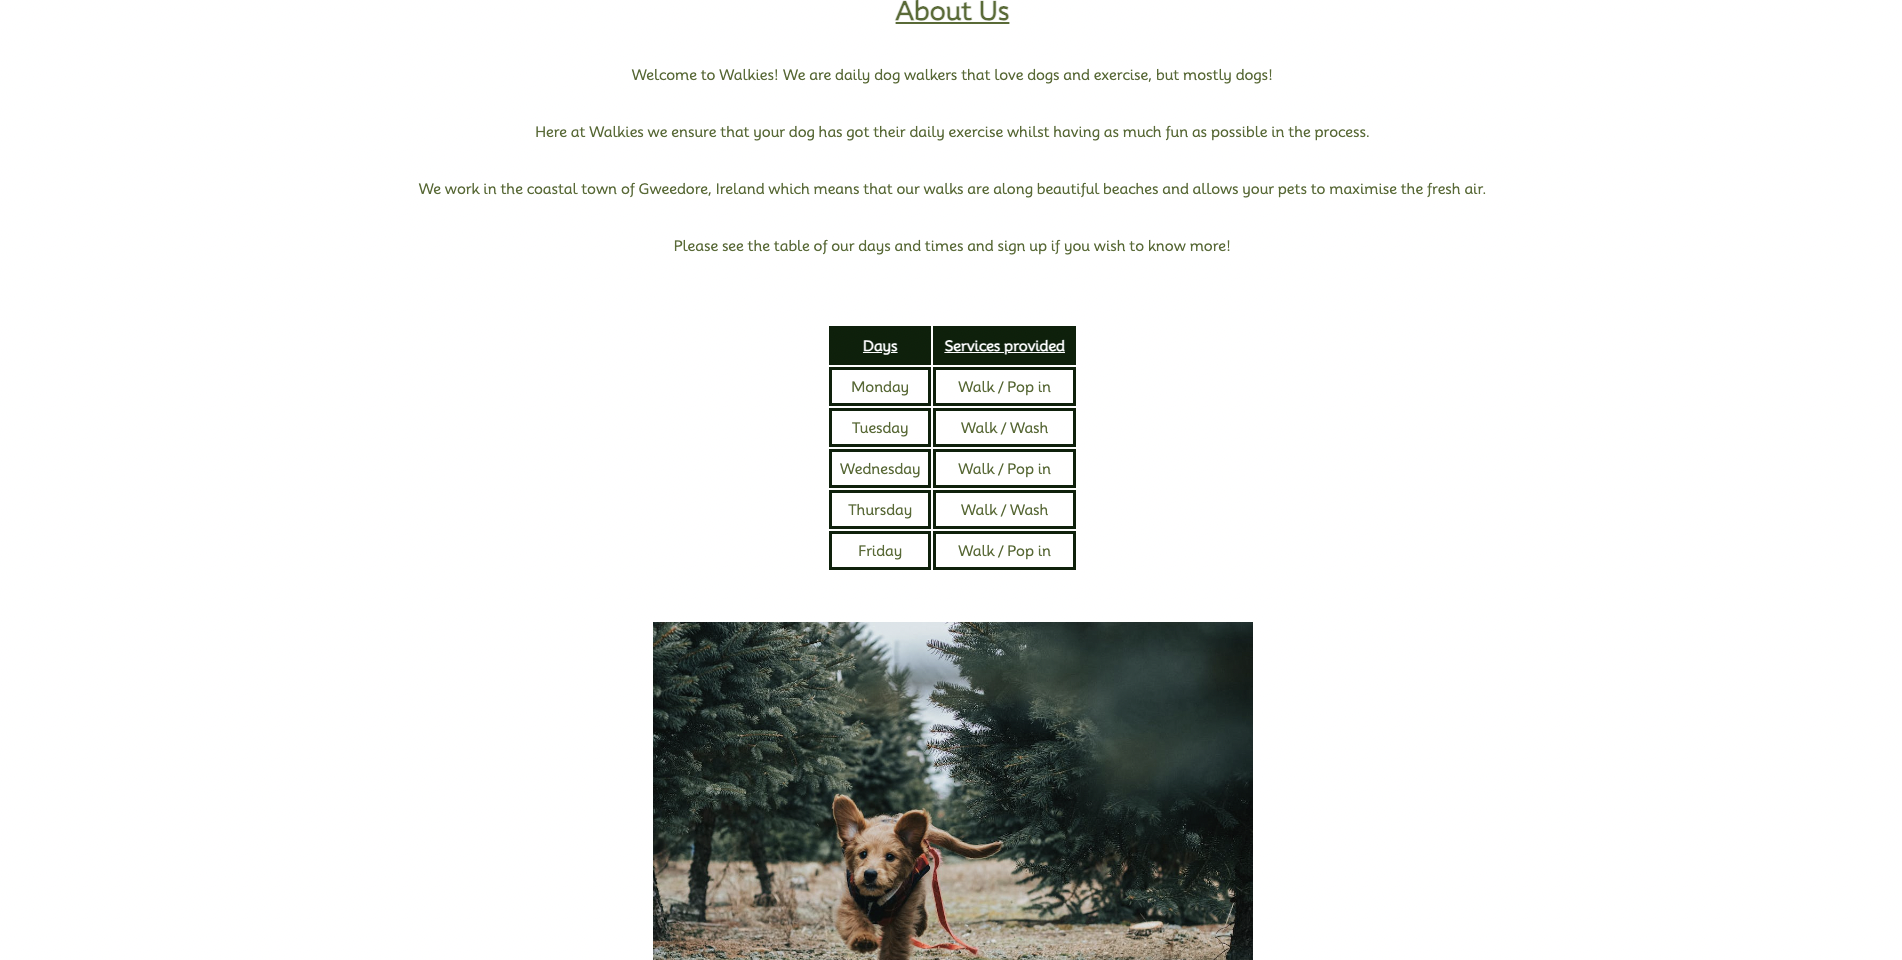
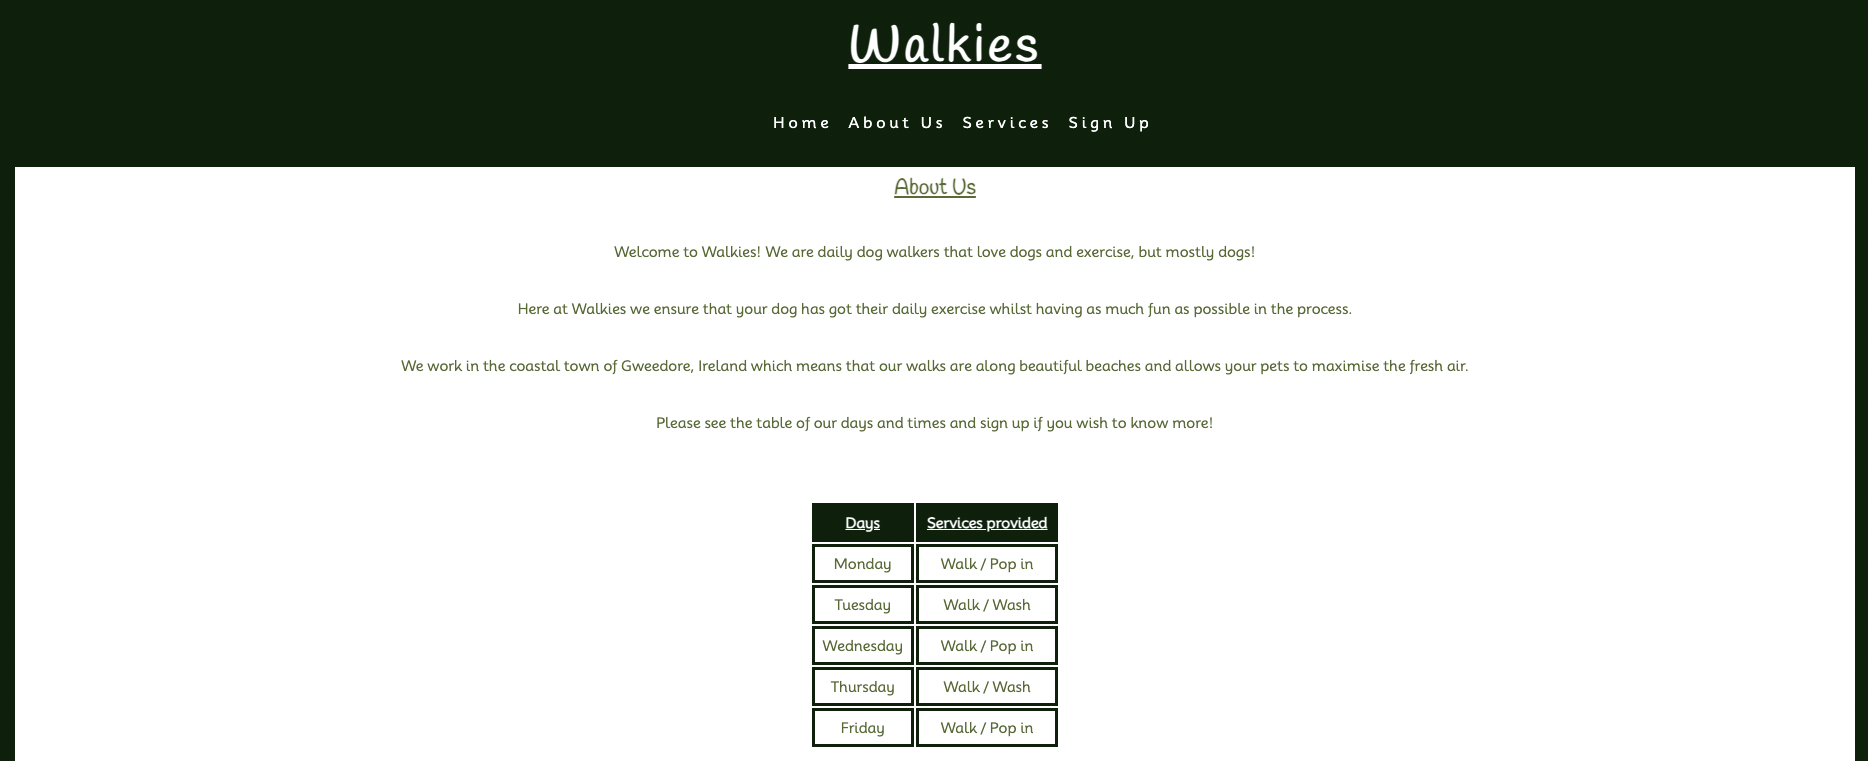
Updated Readme file and added up to date pictures

diff --git a/README.md b/README.md
@@ -5,23 +5,38 @@ Walkies is a dog walking website that also offers other servcies such as a pop i
 
 Walkies is aimed at people with dogs in Gweedore, a beautiful Donegal county surrounded by beaches and amazing outdoor walking environments and will be useful for people who are unable to take their pets on daily walks themselves.
 
-![Responsiveness](assets/readme-images/responsive.png)
+ The live link can be found here [Walkies](https://developerdunne.github.io/Walkies)
+
+![Responsiveness](assets/readme-images/responsive-check.png)
+
+  ## *Pallete*
+
+  - I used a colour pallete of white and green which continues throughout the whole website.
  
+# Technologies
+
+1.HTML - To create basic website.
+2.CSS - To style page and give a nice user experience.
+3.Balsamiq - To create wireframe.
+
+
 # Features
 
 ### *Navigation*
 
 - At the top of the page you can see the webistes name 'Walkies' and a navigation bar, this clearly tells the user the name of the website and links to other parts of the page.
-
 - When clicked on the 'About Us', 'Services' and 'Sign Up' links each will take you to these different sections of the page.
+- The Navigation bar is fixed and will follow down the page so that it is always available.
+- When used on mobiles the navigation bar condenses into a burger icon.
 
+ ![Navigation](assets/readme-images/navbar.png)
 
-### *The Header*
+### *The Home Page*
 
-- The Header shows a large picture of a dog with the website name and the navigation bar which takes you to where you would like to go on the page. 
-- It is designed in contrasting colours which will be a feature throughout the page.
+- The home page shows a large picture of a dog with the website name and the navigation bar which takes you to where you would like to go on the page. 
+- It is designed in contrasting colours which is a feature throughout the page.
 
-![Header](assets/readme-images/landing-page.png)
+![Header](assets/readme-images/home-page.png)
 
 ### *About Us*
 
@@ -33,6 +48,7 @@ Walkies is aimed at people with dogs in Gweedore, a beautiful Donegal county sur
 
 - This section breaks down what services are available with a more detailed explaination. 
 - It continues to be styled with the white and green contrast to make the information stand out.
+- There are 3 tiles, once hovered over each will display more information underneath on that service.
 
 ![Our Services](assets/readme-images/services.png)
 
@@ -44,7 +60,7 @@ Walkies is aimed at people with dogs in Gweedore, a beautiful Donegal county sur
 
 - The sign up section is valuable as it gives the user the opportunity to show that they are interested in the services.
 
-![Sign Up](assets/readme-images/signup.png)
+![Sign Up](assets/readme-images/sign-up.png)
 
 ### *Contact*
 
@@ -74,7 +90,7 @@ Walkies is aimed at people with dogs in Gweedore, a beautiful Donegal county sur
 
 ### *Unsolved bugs*
 
-- I would have liked to change the checkboxes when ticked from blue to green to make the website color pallete however could not find how to solve this.
+- The header when testing responsiveness sometimes overlays to the right, I would hvae liked to resolve this however ran out of time.
 
 # Validator Testing
 
@@ -82,13 +98,13 @@ Walkies is aimed at people with dogs in Gweedore, a beautiful Donegal county sur
 
 - No errors were displayed when putting the code through the official W3C Validator.
 
-![HTML Check](assets/readme-images/html-validator.png)
+![HTML Check](assets/readme-images/html-check.png)
 
 ### *CSS*
 
 - No errors were displayed when putting the code through the official (Jigsaw) Validator.
 
-![CSS Check](assets/readme-images/css-validator.png)
+![CSS Check](assets/readme-images/css-check.png)
 
 ### *Accessibility*
 
@@ -106,21 +122,16 @@ Walkies is aimed at people with dogs in Gweedore, a beautiful Donegal county sur
 
   - Once the Master Branch has been selected, the page provided the link to the website.
 
-  - The live link can be found here [Walkies](https://developerdunne.github.io/Walkies)
+  - The live link can again be found here [Walkies](https://developerdunne.github.io/Walkies)
 
   # Credits
 
-  ### *Wireframes*
-  - Balsamiq was used to create wireframes and design website before building.
-
-![Desktop design](assets/readme-images/wireframes1.png)
-![Phone design](assets/readme-images/wireframes2.png)
 
 ### *Content*
 
-  - Some support with code was taken from W3 Schools for the layout of the form.
+  - Some support with code was taken from W3 Schools for the layout of the form and to create the interactive services page.
 
-  - Some support with layout was taken from the Love Ruuning Project.
+  - Some support with covertext on home page was taken from the Love Running Project.
 
   - Issues with Flexbox properties were solved using CSS-Tricks.
 
@@ -135,3 +146,8 @@ Walkies is aimed at people with dogs in Gweedore, a beautiful Donegal county sur
   - The fonts were taken from [Fonts.google.com](https://fonts.google.com/)
 
   - The image of what the website looks on different devices was taken from [Am I Responsive?](https://ui.dev/amiresponsive) 
+
+# Acknowledgements
+
+- Ideas were taken from the Code Institute's Coffee House and Love Running projects.
+- My mentor, Medale Oluwafemi for his guidance and support.
